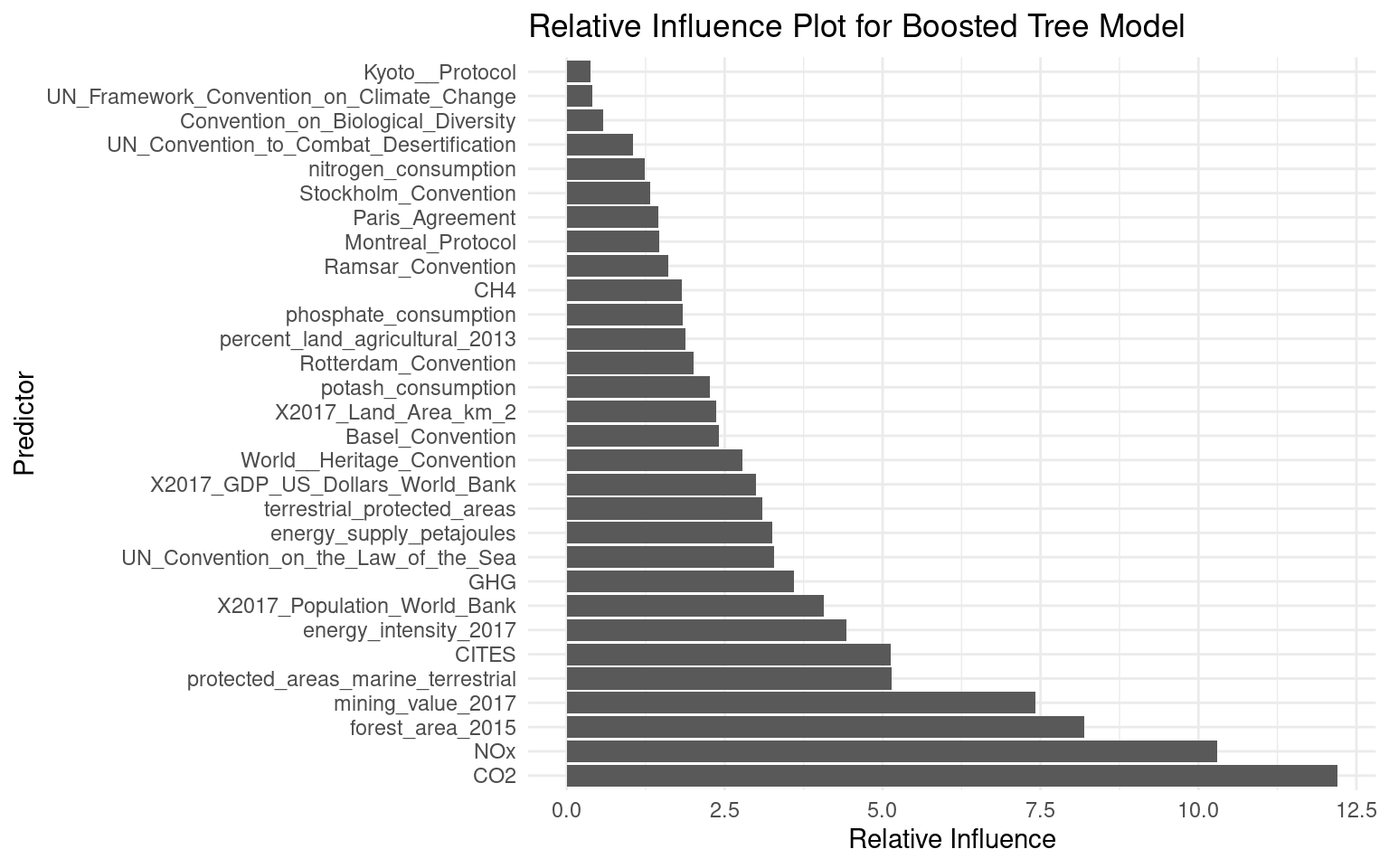
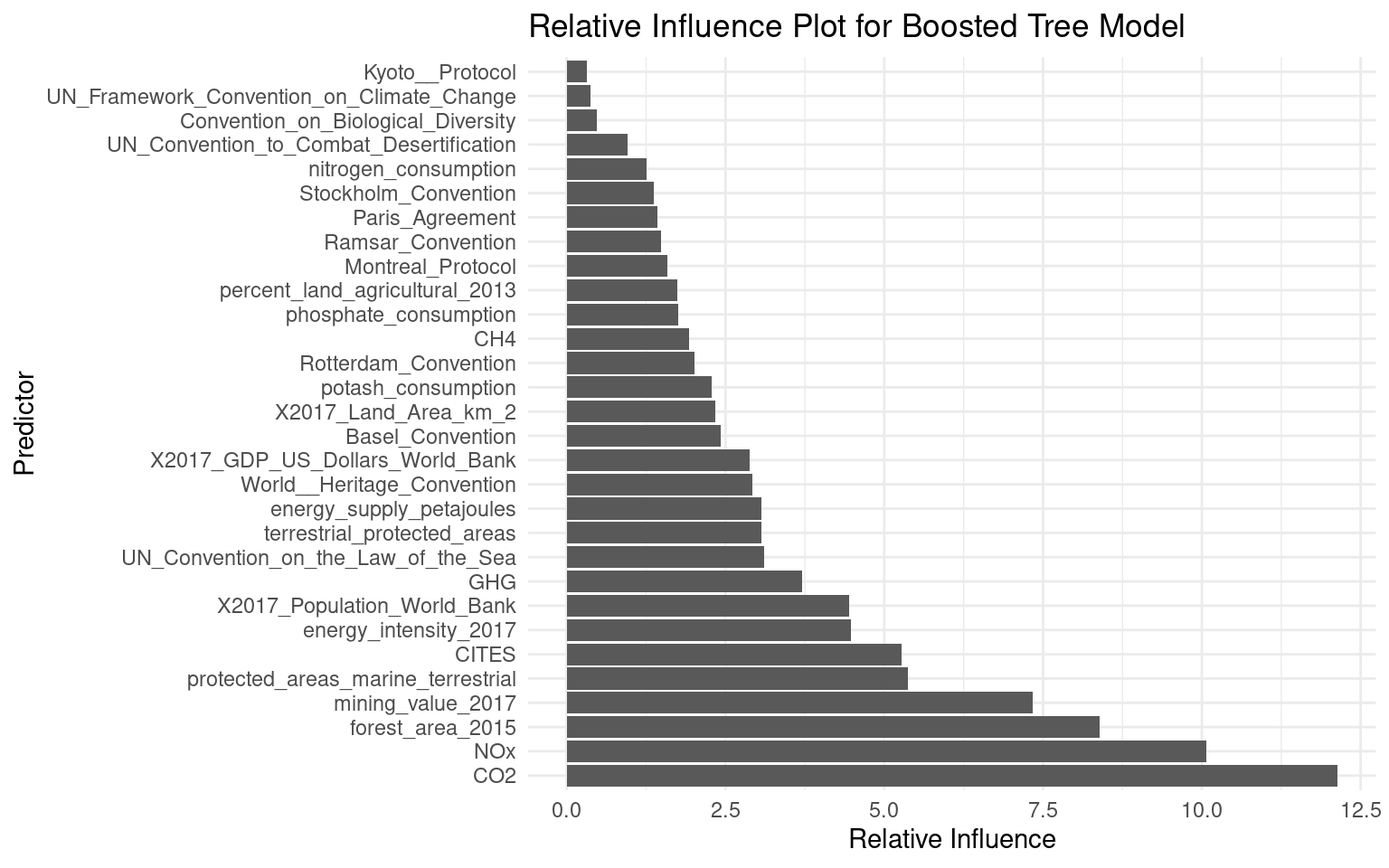
Added PC Regression portion and other updates

diff --git a/Final_Project_html_Broderick_Weinberg.html b/Final_Project_html_Broderick_Weinberg.html
@@ -144,8 +144,9 @@
             <li><a href="#training-and-test-data">Training and Test Data</a></li>
             <li><a href="#model-1-regularized-linear-model">Model 1: Regularized Linear Model</a></li>
             <li><a href="#model-2-regularized-beta-regression-model">Model 2: Regularized Beta Regression Model</a></li>
-            <li><a href="#model-3-random-forest">Model 3: Random Forest</a></li>
-            <li><a href="#model-4-boosted-trees">Model 4: Boosted Trees</a></li>
+            <li><a href="#model-3-principal-component-regression">Model 3: Principal Component Regression</a></li>
+            <li><a href="#model-4-random-forest">Model 4: Random Forest</a></li>
+            <li><a href="#model-5-boosted-trees">Model 5: Boosted Trees</a></li>
             </ul></li>
             <li><a href="#results">Results</a></li>
             <li><a href="#conclusion">Conclusion</a><ul>
@@ -218,7 +219,7 @@
 <li>Training and Test Data</li>
 <li>Model 1: Regularized Linear Model</li>
 <li>Model 2: Regularized Generalized Linear Model (Beta Regression)</li>
-<li>Model 3: Principal Component Analysis and Regression</li>
+<li>Model 3: Principal Component Regression</li>
 <li>Model 4: Random Forest Model</li>
 <li>Model 5: Boosted Tree Model</li>
 </ul></li>
@@ -271,6 +272,7 @@ sample_2 = runif(100000,0,1)
 # Calculate MAE
 mean(abs(sample_1-sample_2))</code></pre>
 <pre><code>## [1] 0.3352109</code></pre>
+<pre class="r"><code>remove(sample_1,sample_2)</code></pre>
 <p>This sets a limit on what a useful model can be. If a model has an MAE of .4 for example, then we could do better by just guessing. Alternatively, any model with MAE substantially below .33 implies the model is more useful than random guessing.</p>
 <p>Finally, the Bias of the model is considerd. Bias is defined as:</p>
 <p><span class="math display">\[Bias = \frac{\sum_{i = 1}^{n}\hat{y_i}-y_i}{n}\]</span> Unlike MAE and RMSE, bias is measured using the training data, i.e. <span class="math inline">\(y_i \in \{y_{train}\}\)</span>. Effectively, it measures how close the predicted values are on average to the values used to fit them. By effectively having a large number of predictors (e.g. <span class="math inline">\(n\)</span> fitting polynomial terms in a Generalized Additive Model), it is often possible to get the bias close to 0. This generally indicates the model is overfitted, and will perform poorly on test data. Low bias usually comes at the cost of high variance in the prediction. Bias is measured in this report to provide warning of overfitting. It may not be directly comparable between models, as some models tend to have lower bias but still may perform better.</p>
@@ -294,6 +296,8 @@ library(glmnet)
 library(gbm)
 library(tibble)
 library(forcats)
+library(pls)
+library(stringr)
 library(rmdformats) # Using developmental version</code></pre>
 </div>
 <div id="functions" class="section level2">
@@ -1284,12 +1288,12 @@ plot_grid(y.train_hist,y.test_hist,ncol = 2)</code></pre>
 set.seed(42)
 
 # Beta Regression Values must be strictly between 0 and 1
-y.train = ifelse(y.train == 0,y.train + .000001,y.train)
-y.train = ifelse(y.train == 1,y.train - .000001,y.train)
+y.train_beta = ifelse(y.train == 0,y.train + .000001,y.train)
+y.train_beta = ifelse(y.train == 1,y.train - .000001,y.train_beta)
 
 ## Model formula.
 ## y.train instead of renewable_percent 2017
-beat_regression_model = y.train ~ X2017_Population_World_Bank + X2017_Land_Area_km_2 + X2017_GDP_US_Dollars_World_Bank + 
+beta_regression_model = y.train_beta ~ X2017_Population_World_Bank + X2017_Land_Area_km_2 + X2017_GDP_US_Dollars_World_Bank + 
   CH4 + CO2 + GHG + NOx + energy_supply_petajoules + energy_intensity_2017 +
   mining_value_2017 + percent_land_agricultural_2013 + nitrogen_consumption + phosphate_consumption +
   potash_consumption + terrestrial_protected_areas + protected_areas_marine_terrestrial + forest_area_2015 + Basel_Convention +
@@ -1299,8 +1303,8 @@ beat_regression_model = y.train ~ X2017_Population_World_Bank + X2017_Land_Area_
 
 ## Estimate model.
 ## The data is input in matrix form
-beta_model = bamlss(beat_regression_model, family = &quot;beta&quot;, 
-                    data = cbind(y.train,x.train), 
+beta_model = bamlss(beta_regression_model, family = &quot;beta&quot;, 
+                    data = cbind(y.train_beta,x.train), 
                     optimizer = lasso, criterion = &quot;BIC&quot;, 
                     n.iter = 12000, burnin = 2000, thin = 10)</code></pre>
 <p>The model is fit above. Since the bamlss function takes a bayesian approach, the <span class="math inline">\(\beta&#39;s\)</span> are modeled via posterior distributions. This involves sampling the posterior distribution using monte carlo sampling. The &quot;n.iter&quot;, &quot;burnin&quot;, and &quot;thin&quot; options relate to this sampling. The selected values were defaults suggested in a Vignette on the bamlss wepage <span class="citation">(Umlauf et al. 2019)</span>.</p>
@@ -1308,7 +1312,7 @@ beta_model = bamlss(beat_regression_model, family = &quot;beta&quot;,
 summary(beta_model)</code></pre>
 <pre><code>## 
 ## Call:
-## bamlss(formula = beat_regression_model, family = &quot;beta&quot;, data = cbind(y.train, 
+## bamlss(formula = beta_regression_model, family = &quot;beta&quot;, data = cbind(y.train_beta, 
 ##     x.train), optimizer = lasso, criterion = &quot;BIC&quot;, n.iter = 12000, 
 ##     burnin = 2000, thin = 10)
 ## ---
@@ -1317,7 +1321,7 @@ summary(beta_model)</code></pre>
 ## *---
 ## Formula mu:
 ## ---
-## y.train ~ X2017_Population_World_Bank + X2017_Land_Area_km_2 + 
+## y.train_beta ~ X2017_Population_World_Bank + X2017_Land_Area_km_2 + 
 ##     X2017_GDP_US_Dollars_World_Bank + CH4 + CO2 + GHG + NOx + 
 ##     energy_supply_petajoules + energy_intensity_2017 + mining_value_2017 + 
 ##     percent_land_agricultural_2013 + nitrogen_consumption + phosphate_consumption + 
@@ -1413,7 +1417,7 @@ summary(beta_model)</code></pre>
 ## Sampler summary:
 ## -
 ## DIC = -319.5839 logLik = 179.1992 pd = 38.8144
-## runtime = 27.925
+## runtime = 29.723
 ## ---
 ## Optimizer summary:
 ## -
@@ -1477,7 +1481,7 @@ beta_abs_e = mean(abs(y.test-beta.pred))
 
 # Calculate Bias
 beta.fit = predict(beta_model, newdata = x.train, type = &quot;parameter&quot;)$mu
-beta_bias = mean(beta.fit - y.train)
+beta_bias = mean(beta.fit - y.train_beta)
 
 # Output
 paste0(&quot;Beta GLM RMSE: &quot;,round(beta_rmse,4), &quot;; &quot;,
@@ -1618,13 +1622,154 @@ kable(rbind(head(beta_predict_analysis_1,5),
 </tr>
 </tbody>
 </table>
+<pre class="r fold-hide"><code># Remove Beta Objectes
+remove(y.train_beta,beta_regression_model,beta_model)
+remove(beta_model_residuals,beta_model_fitted,beta_model_residuals_df)
+remove(histogram_beta_residuals, qq_beta_residuals, resid_vs_fit_model)
+remove(beta.pred, beta.fit)
+remove(beta_predict_graph_data, beta_predict_analysis_1)</code></pre>
 <p>The above table confirms that the model performs worst at predicting high and 0 percentages. Interestingly, Palau was predicted to be the highest renewable percentage, but in fact is 0. Double checking the data, Palau's low renewable energy percentage is confirmed by another source: the U.S. Department of Energy reported Palau's Electricity generation mix to be 97.5% diesel in 2020 and 2.5% solar <span class="citation">(Laboratory 2020)</span>. Lesotho is also predicted very poorly. Generally, the model is somewhat successful in predicting values between 0 and .7, but struggles to predict large percentages or percentages close to 0.</p>
 </div>
-<div id="model-3-random-forest" class="section level2">
-<h2>Model 3: Random Forest</h2>
+<div id="model-3-principal-component-regression" class="section level2">
+<h2>Model 3: Principal Component Regression</h2>
+<p>The previous two models are linear models. One issue with linear models is when multiple covariates are highly correlated. Then the least squares estimates tend to be unstable. The coefficients may change a lot due to the exclusion or inclusion of one variable. A potential solution to this problem is principal component regression.</p>
+<p>Principal component regression is based on finding the principal components of the training data. The principal components are found as follows: each column of the <span class="math inline">\(X\)</span> matrix (the predictors) is centered at 0. They are also often scaled to be unit variance. If this is not done and the variance of any of the predictors is significantly different, the results will be skewed towards predictors with larger variance (and often larger units or values). After that is done, the covariance matrix of the <span class="math inline">\(X\)</span> data is found. The eigenvalues and eigenvectors of the covariance matrix are found. The eigenvalues and their corresponding eigenvectors are sorted decreasing by eigenvalue. A transformation matrix can then be made from the corresponding eigenvectors (again, in order). The number of eigenvectors chosen depends on how many principal components are desired. This projection matrix can then be multiplied by the <span class="math inline">\(X\)</span> matrix, which projects the original data onto the chosen number of principal components.</p>
+<p>These principal components have a number of desirable features. The process always reduces the dimension of the data by 1 dimension, and will reduce the dimension to the number of selected principal components. The principal components are designed in such a way that the first component has the most variance, then the second has less, and so on. The principal components are orthogonal by construction. These last two points make principal components very useful for analyzing correlated data.</p>
+<p>Principal component regression takes the principal components and fits a regression model using least squares estimates. The number of components to be used in the regression is a model decision. Choosing too many components may lead to overfitting (high variance) while choosing too few leaves useful information out of the model (high bias). Cross validation in often used to estimate the test error for each successive principal component; to choose the numebr of components with the lowest CV error. This will (ideally) lead to prediction with the lowest possible test error.</p>
+<p>The following model is used for the principal component regression. All predictors are incorporated in the model.</p>
+<pre class="r fold-hide"><code>## Model formula.
+## y.train instead of renewable_percent 2017
+pca_regression_model = y.train ~ X2017_Population_World_Bank + X2017_Land_Area_km_2 + X2017_GDP_US_Dollars_World_Bank + 
+  CH4 + CO2 + GHG + NOx + energy_supply_petajoules + energy_intensity_2017 +
+  mining_value_2017 + percent_land_agricultural_2013 + nitrogen_consumption + phosphate_consumption +
+  potash_consumption + terrestrial_protected_areas + protected_areas_marine_terrestrial + forest_area_2015 + Basel_Convention +
+  CITES + Convention_on_Biological_Diversity + Kyoto__Protocol + Montreal_Protocol + Paris_Agreement + Ramsar_Convention + 
+  Rotterdam_Convention + Stockholm_Convention + UN_Convention_on_the_Law_of_the_Sea + UN_Convention_to_Combat_Desertification +
+  UN_Framework_Convention_on_Climate_Change + World__Heritage_Convention</code></pre>
+<p>The principal component regression model is fit below using the pcr package, which is designed for principal component regression and allows for cross validation. Note that the data is scaled to unit variance, as discussed above. 10-fold cross validation is implemented.</p>
+<pre class="r"><code>set.seed(42)
+# Fit the PC Regression model, scaling the data and implmenting
+# 10-Fold CV
+pca_regression = pcr(pca_regression_model, data = cbind(y.train,x.train), 
+                     scale = TRUE, validation = &quot;CV&quot;, segments = 10)
+#summary(pca_regression)
+pca_regression_results = (capture.output(summary(pca_regression)))</code></pre>
+<p>The pcr package does not provide for easy extraction of CV errors and other information. The below code chunk provides string cleaning to extract the values needed to analyze the model and select the optimal number of components. TECHNICAL NOTE: when using the knitr package to knit this Rmd file to an .html file, the interpreter does not seem to interpret this string cleaning code in the same manner as when run locally on the author's machine (the pca_regression_results variable likely does not have the same rows of string values). Therefore, the output of this code chunk is saved to the Model_Output folder and loaded in the next chunk for knitting purposes. It is possible the pca_regression_results object will look different on other machines as well, and the .Rdata file in Model_Output may need to be used.</p>
+<pre class="r fold-hide"><code># Get the Cross Validation for each Component
+pca_regression_CV1 = pca_regression_results[9]
+pca_regression_CV2 = pca_regression_results[12]
+pca_regression_CV = as.numeric(unlist(strsplit(str_remove_all(paste(pca_regression_CV1,pca_regression_CV2, sep = &quot; &quot;),&quot;CV&quot;), &quot;\\s+&quot;)))
+pca_regression_CV = pca_regression_CV[2:32]
+
+# Get the % Variance Exmplaind for The Training Data
+pca_regression_VarX1 = pca_regression_results[17]
+pca_regression_VarX2 = pca_regression_results[20]
+pca_regression_VarX = as.numeric(unlist(strsplit(str_remove_all(paste(pca_regression_VarX1,pca_regression_VarX2, sep = &quot; &quot;),&quot;X&quot;), &quot;\\s+&quot;)))
+
+# Get the % Variance Exmplaind for The Test Data
+pca_regression_VarY1 = pca_regression_results[18]
+pca_regression_VarY2 = pca_regression_results[21]
+pca_regression_VarY = as.numeric(unlist(strsplit(str_remove_all(paste(pca_regression_VarY1,pca_regression_VarY2, sep = &quot; &quot;),&quot;y.train&quot;), &quot;\\s+&quot;)))
+
+# Input Data into Dataframe
+pca_regression_output = data.frame(Component = seq(0,30,by=1),
+                                               RMSEP = pca_regression_CV,
+                                               VarExplX = pca_regression_VarX,
+                                               VarExplY = pca_regression_VarY)
+# Save to Model Output folder
+save(pca_regression_output, file = &quot;Model_Output/pca_regression_output.Rdata&quot;)</code></pre>
+<p>Below is code to plot the RMSE for each component, and the percent of total variation explained by each component (as provided by the CV process).</p>
+<pre class="r fold-hide"><code># Load the code from the previous chunk
+load(file = &quot;Model_Output/pca_regression_output.Rdata&quot;)
+
+# Plot of Root Mean Squared Test Error Plot
+ggplot(data = pca_regression_output, aes(x = Component, y = RMSEP)) +
+  geom_line() +
+  geom_hline(yintercept = min(pca_regression_output$RMSEP), 
+             color = &quot;red&quot;, linetype = &quot;dashed&quot;) +
+  scale_x_continuous(breaks = seq(0,30,by=1)) +
+  scale_y_continuous(breaks = seq(.3,.475,by=.025)) +
+  labs(title = &quot;RMSE for Number of Components in Model\n10-Fold CV&quot;,
+       x=&quot;# of Principal Components&quot;,y=&quot;RMSE&quot;) + 
+  theme_minimal()</code></pre>
+<p><img src="Final_Project_html_Broderick_Weinberg_files/figure-html/pca_regression_plot_CV_VarExpl-1.png" width="768" /></p>
+<pre class="r fold-hide"><code># Plot of Percent of Variation Explained
+ggplot(data = pca_regression_output, aes(x = Component)) +
+  geom_line(aes(y = VarExplY, color = &#39;Y.Train&#39;)) +
+  geom_line(aes(y = VarExplX, color=&#39;X.Train&#39;)) +
+  scale_color_manual(name=&#39;Data&#39;,
+                     breaks=c(&#39;Y.Train&#39;, &#39;X.Train&#39;),
+                     values=c(&#39;Y.Train&#39;=&#39;red&#39;, &#39;X.Train&#39;=&#39;black&#39;)) +
+  scale_x_continuous(breaks = seq(0,30,by=1)) +
+  labs(title = &quot;Percent of Variance Explained for Model\n10-Fold CV&quot;,
+       x=&quot;# of Principal Components&quot;,y=&quot;% of Variance Explained&quot;) + 
+  theme_minimal()</code></pre>
+<p><img src="Final_Project_html_Broderick_Weinberg_files/figure-html/pca_regression_plot_CV_VarExpl-2.png" width="768" /></p>
+<p>The above two plots indicate the results of cross validation. The first shows the cross validation RMSE for each additional component (the way the components are constructed, all components up to the selected component are incoporated into the model). The CV error, estimating test error, is minimized by a model with 8 components. Note the pcr package provides an Adjusted Cross Validation metric as well: the results are about the same.</p>
+<p>The second plot shows the cumulative variance explained by each component. The black line is for the model data (the training predictors) and the red line is for the response (training renewable energy percentage). By construction, percent variance explained must arrive at 100% by the final principal component for the training data. How quickly it arrives provides some sense of how many components are useful. For principal component analysis - an unsupervised learning model, this plot would be more important in determining the optimal number of components. Since the principal regression is supervised learning, and the goal is prediction, the RMSE is used to select the number of components. It appears that at 8 principal components, about 75% of the variance in the training data is explained. The red line indicates how much of the variation in the response is explained by each component. There is no guarantee this will get close to 100%. In this case it appears all the principal components can only explain about 25% of the training response. This may suggest an upper limit of how well prediction will work both in this model, and in this report in general. Even when constructing orthogonal, variance maximizing components, renewable energy percentage is not that related to the data.</p>
+<p>Prediction is performed in the code chunk below.</p>
+<pre class="r"><code>set.seed(42)
+# Make Prediction with Optimal number of Components
+pcr_regression_pred = predict(pca_regression, x.test, ncomp = 8)
+
+# Calculate Mean Squared Error and Mean Absolute Error
+pcr_regression_rmse = sqrt(mean((y.test-pcr_regression_pred)^2))
+pcr_regression_mae = mean(abs(y.test-pcr_regression_pred))
+
+# Calculate Bias
+pcr_regression_fit = predict(pca_regression, newdata = x.train, ncomp = 8)
+pcr_regression_bias = mean(pcr_regression_fit - y.train)
+
+# Output
+paste0(&quot;PCA Regression RMSE: &quot;,round(pcr_regression_rmse,4), &quot;; &quot;,
+       &quot;PCA Regression MAE: &quot;,round(pcr_regression_mae,4), &quot;; &quot;,
+       &quot;PCA Regression Bias: &quot;,round(pcr_regression_bias,6))</code></pre>
+<pre><code>## [1] &quot;PCA Regression RMSE: 0.2756; PCA Regression MAE: 0.2278; PCA Regression Bias: 0&quot;</code></pre>
+<p>The test RMSE of the principal component regression model is .2756. The MAE is .2278. And the bias is very small. The below graph compares predicted values and the test values.</p>
+<pre class="r fold-hide"><code># Create Data Frame with Countries, Predicted Values
+# And Actual Values
+pca_predict_graph_data = data.frame(observation = c(1:39),
+           prediction = as.vector(pcr_regression_pred),
+           actual = y.test,
+           Country = x.test$Country_Final)
+
+# Specifiy minimum and maxium in each case for plotting 
+# the line between points
+pca_predict_graph_data = pca_predict_graph_data %&gt;%
+  mutate(min_value_col = pmin(prediction,actual)) %&gt;%
+  mutate(max_value_col = pmax(prediction,actual)) %&gt;%
+  mutate(Abs_Diff = abs(actual-prediction))
+
+# Plot the Predictions vs. Actual with difference lines and labels
+ggplot(data = pca_predict_graph_data, aes(x = observation, label = Country)) + 
+  geom_point(aes(y = prediction, color = &#39;Predicted&#39;)) +
+  geom_point(aes(y = actual, color=&#39;Actual&#39;)) +
+  geom_linerange(aes(ymin = min_value_col, ymax = max_value_col), 
+                col = &quot;blue&quot;, linetype = &quot;dashed&quot;, alpha = .5) +
+  geom_text(aes(y = actual), size = 2, vjust = -.5) +
+  labs(title = &quot;Test Dataset Results for PCA Regression\n8 Components&quot;,
+       x=&quot;Country&quot;,y=&quot;Renewable Energy 2017 (%)&quot;) + 
+  scale_color_manual(name=&#39;Renewable % 2017&#39;,
+                     breaks=c(&#39;Actual&#39;, &#39;Predicted&#39;),
+                     values=c(&#39;Actual&#39;=&#39;black&#39;, &#39;Predicted&#39;=&#39;red&#39;)) +
+  theme(legend.title=element_text(size=20), legend.text=element_text(size=14)) +
+  theme_minimal()</code></pre>
+<p><img src="Final_Project_html_Broderick_Weinberg_files/figure-html/pca_regression_prediction_graph-1.png" width="768" /></p>
+<p>Like some of the other models, this model struggles to predict large renewable energy percentages, but performs reasonable well for countries under 50% renewable energy. While this model will not have the lowest RMSE and will not be the top choice for prediction, the percent variation explained by each component is a useful metric. The fact that it tops out at 25% for the training data suggests that renewable energy percentage may not be predicted well by the covariates available (after the data cleaning and limiation stage).</p>
+<pre class="r fold-hide"><code># Remove environmental objects from this section that
+# are unecessary for the remainder of the report
+remove(pca_regression_model, pca_regression, pca_regression_results)
+remove(pca_regression_CV1, pca_regression_CV2, pca_regression_CV)
+remove(pca_regression_VarX1, pca_regression_VarX2, pca_regression_VarX)
+remove(pca_regression_VarY1, pca_regression_VarY2, pca_regression_VarY)
+remove(pca_regression_output, pcr_regression_pred, pcr_regression_fit, 
+       pca_predict_graph_data)</code></pre>
 </div>
-<div id="model-4-boosted-trees" class="section level2">
-<h2>Model 4: Boosted Trees</h2>
+<div id="model-4-random-forest" class="section level2">
+<h2>Model 4: Random Forest</h2>
+</div>
+<div id="model-5-boosted-trees" class="section level2">
+<h2>Model 5: Boosted Trees</h2>
 <p>Boosted Trees are another popular non-parametric model for prediction. The general principle of boosting is to take a weak learner, i.e. a model that high bias and low variance. A sequential series of learners are fit successively, using the results of the previous learner to fit the next learner. Gradient boosting is a specific type of boosting algorithm in which each successive learner uses the largest residuals <span class="math inline">\((\hat{y_i}-y_i)\)</span> to fit the next learner. Different models can be fit using a boosting algorithm. Boosting with trees is a popular choice, since a single decision tree is a weak learner, especially when the tree depth is constrained <span class="citation">(Walia 2017)</span>.</p>
 <p>Unlike some other regularized modeling techniques (such as a lasso linear model), a boosted tree has more than one parameter that needs to be considered in trying to fit the optimal model for prediction. The number of trees is one consideration (refered to as <span class="math inline">\(M\)</span> by Hastie, Tibshirani, and Friedman). The more successive iterations of the tree that are fit, the better the model will match the training data, which can lead to overfitting <span class="citation">(see Hastie, Tibshirani, and Friedman 2017, sec. 10.12)</span>. Additionally, the number of nodes of the tree, called the depth, exhibits a similar phenomena. The &quot;deeper&quot; each tree is allowed to &quot;grow&quot;, the better it will fit the data, leading potentially to overfitting and high variance in the model (the depth is refered to as <span class="math inline">\(D\)</span>). Typically tree depth is kept small in the case of boosting, since weak learners are desireable for boosting <span class="citation">(Walia 2017)</span>, <span class="citation">(Hastie, Tibshirani, and Friedman 2017, sec. 10.12)</span>. Finally, shrinkage can be implemented. Specifically, the weight of a each successive set of residuals used to fit the next tree what is being &quot;shrunk&quot; <span class="citation">(Hastie, Tibshirani, and Friedman 2017, sec. 10.12)</span>. A shrinkage parameter and the number of trees exhibit a tradeoff in reducing test error, with smaller shrinkage values requiring larger numbers of trees. This is reported to empirically produce better results <span class="citation">(see Hastie, Tibshirani, and Friedman 2017, sec. 10.12)</span>. The shrinkage term is refered to as <span class="math inline">\(\nu\)</span> by Hastie, Tibshirani, and Friedman.</p>
 <p>Additionally, a loss function must be selected. Computationally, squared error loss (gaussian) is the default in the gbm package <span class="citation">(Ridgeway 2020)</span>. Absolute losss and t-distribution loss are also available. Other continuous loss functions exist but are not available in gbm, and are likely more computationally expensive anyways <span class="citation">(see Hastie, Tibshirani, and Friedman 2017, sec. 10.6)</span>.</p>
@@ -1948,7 +2093,7 @@ boost_model_prediction = gbm(boost_tree_model, data=cbind(y.train,x.train),
                     shrinkage = .008)
 # CV Error
 paste0(&quot;Cross Validation Error: &quot;,round(boost_model_prediction$cv.error[560],4))</code></pre>
-<pre><code>## [1] &quot;Cross Validation Error: 0.0862&quot;</code></pre>
+<pre><code>## [1] &quot;Cross Validation Error: 0.0861&quot;</code></pre>
 <p>The randomness between fits seems to have relatively high impact on the performance: running the optimal model with the same seed in R (but likely from a slightly different starting point in the random number list) results in a CV error of .0861 at <span class="math inline">\(M=560\)</span>. This is still an improvement over the Ridgeway method. But it suggests that choosing the model with lowest CV error might be a computationally expensive task with diminishing returns in predictive power. Non-parametric methods are difficult to evaluate from an inferential standpoint. The relative influence metric is one method for understanding the relationship between predictors and the response for boosting. The relative influence plot for the predictive model is shown below.</p>
 <pre class="r fold-hide"><code># Get Relative Influence for Each Predictor
 boost_summary = summary(boost_model_prediction, plotit = FALSE)
@@ -1994,7 +2139,7 @@ boost_tree_bias = mean(boost_tree_fit - y.train)
 paste0(&quot;Boosted Tree RMSE: &quot;,round(boost_tree_rmse,4), &quot;; &quot;,
        &quot;Boosted Tree MAE: &quot;,round(boost_tree_mae,4), &quot;; &quot;,
        &quot;Boosted Tree Bias: &quot;,round(boost_tree_bias,6))</code></pre>
-<pre><code>## [1] &quot;Boosted Tree RMSE: 0.2799; Boosted Tree MAE: 0.2102; Boosted Tree Bias: 3.8e-05&quot;</code></pre>
+<pre><code>## [1] &quot;Boosted Tree RMSE: 0.2767; Boosted Tree MAE: 0.2082; Boosted Tree Bias: 1.4e-05&quot;</code></pre>
 <p>The RMSE is .2767, the MAE is .2082, and the Bias is approximately 0. The low bias is somewhat concerning, as it suggests the model is still overfit despite extensive use of cross-validation. This may be a feature of the boosting approach, and will be compared to other models in the results section.</p>
 <p>The below graph compares predicted values and the test values.</p>
 <pre class="r fold-hide"><code># Create Data Frame with Countries, Predicted Values
